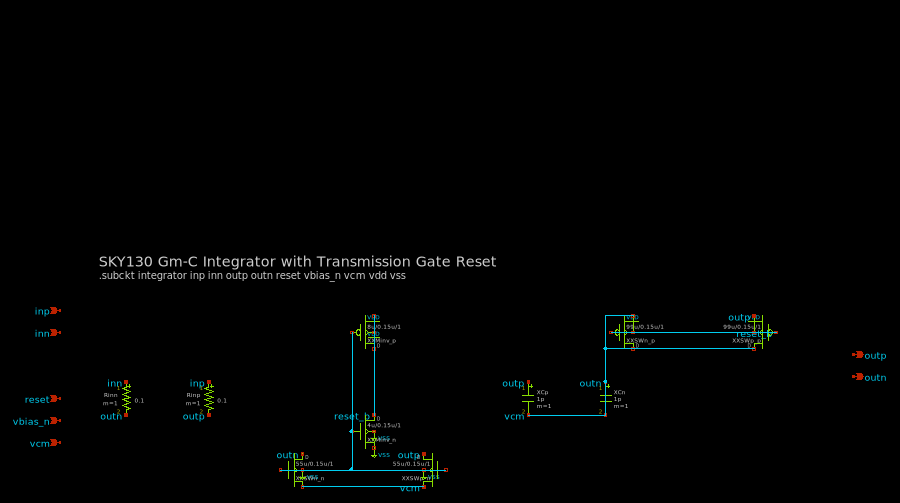
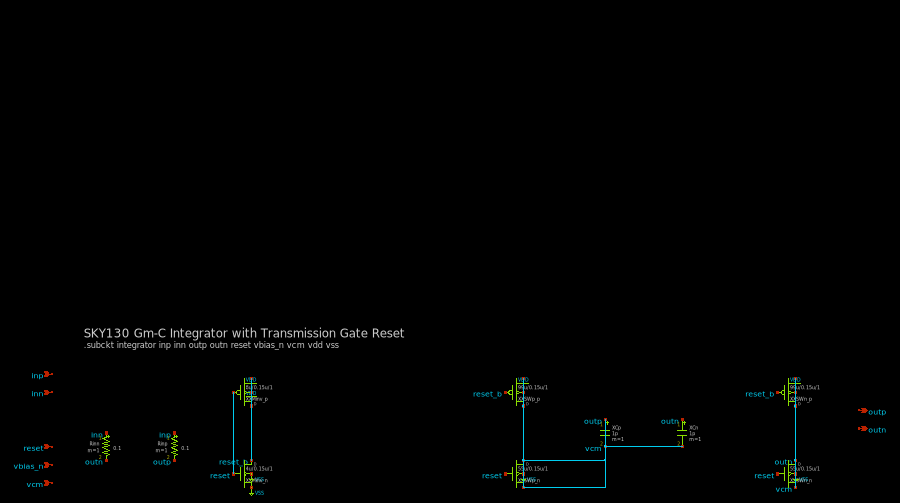
Transmission gate detection, integrator TG-based layout
- Detect transmission gates: NMOS+PMOS sharing drain/source with different gates
- Place TGs as vertical PMOS/NMOS pairs (like inverters)
- Integrator now shows clear structure: reset inverter + 2 TG switches + caps
- All 7 circuits at 0 wire crossings

diff --git a/src/placer.py b/src/placer.py
@@ -101,6 +101,16 @@ def detect_building_blocks(circuit: Circuit) -> list[BuildingBlock]:
                 blocks.append(BuildingBlock(type="inverter", components=[pname, nname]))
                 used.update([nname, pname])
 
+    # Transmission gates (NMOS + PMOS sharing drain and source, different gates)
+    for nname, nm in list(mosfets_n.items()):
+        for pname, pm in list(mosfets_p.items()):
+            if nname in used or pname in used:
+                continue
+            if nm.pins["drain"] == pm.pins["drain"] and nm.pins["source"] == pm.pins["source"]:
+                if nm.pins["gate"] != pm.pins["gate"]:
+                    blocks.append(BuildingBlock(type="tgate", components=[pname, nname]))
+                    used.update([nname, pname])
+
     # Differential pairs (including degenerated: sources connect through resistors)
     for fets, suffix in [(mosfets_n, "n"), (mosfets_p, "p")]:
         for name1, m1 in list(fets.items()):
@@ -218,8 +228,8 @@ def _group_connected_blocks(circuit: Circuit, blocks: list[BuildingBlock]) -> li
 
 
 def _is_p_type(block: BuildingBlock) -> bool:
-    """Check if a block is PMOS-based."""
-    return block.type.endswith("_p") or block.type == "inverter"
+    """Check if a block is PMOS-based (or mixed like inverter/tgate)."""
+    return block.type.endswith("_p") or block.type in ("inverter", "tgate")
 
 
 def _is_symmetric_block(block: BuildingBlock) -> bool:
@@ -812,9 +822,9 @@ def _place_block(result: PlacedCircuit, block: BuildingBlock, center_x: float, y
     """Place a building block centered at (center_x, y)."""
     half_w = H_SPACING // 2
 
-    if block.type == "inverter":
+    if block.type in ("inverter", "tgate"):
         cp, cn = block.components[0], block.components[1]
-        # Tighter vertical spacing for inverters
+        # Tighter vertical spacing for inverters/tgates
         inv_pmos_y = y
         inv_nmos_y = y + 180
         result.placements[cp] = Placement(x=_snap(center_x), y=_snap(inv_pmos_y))
